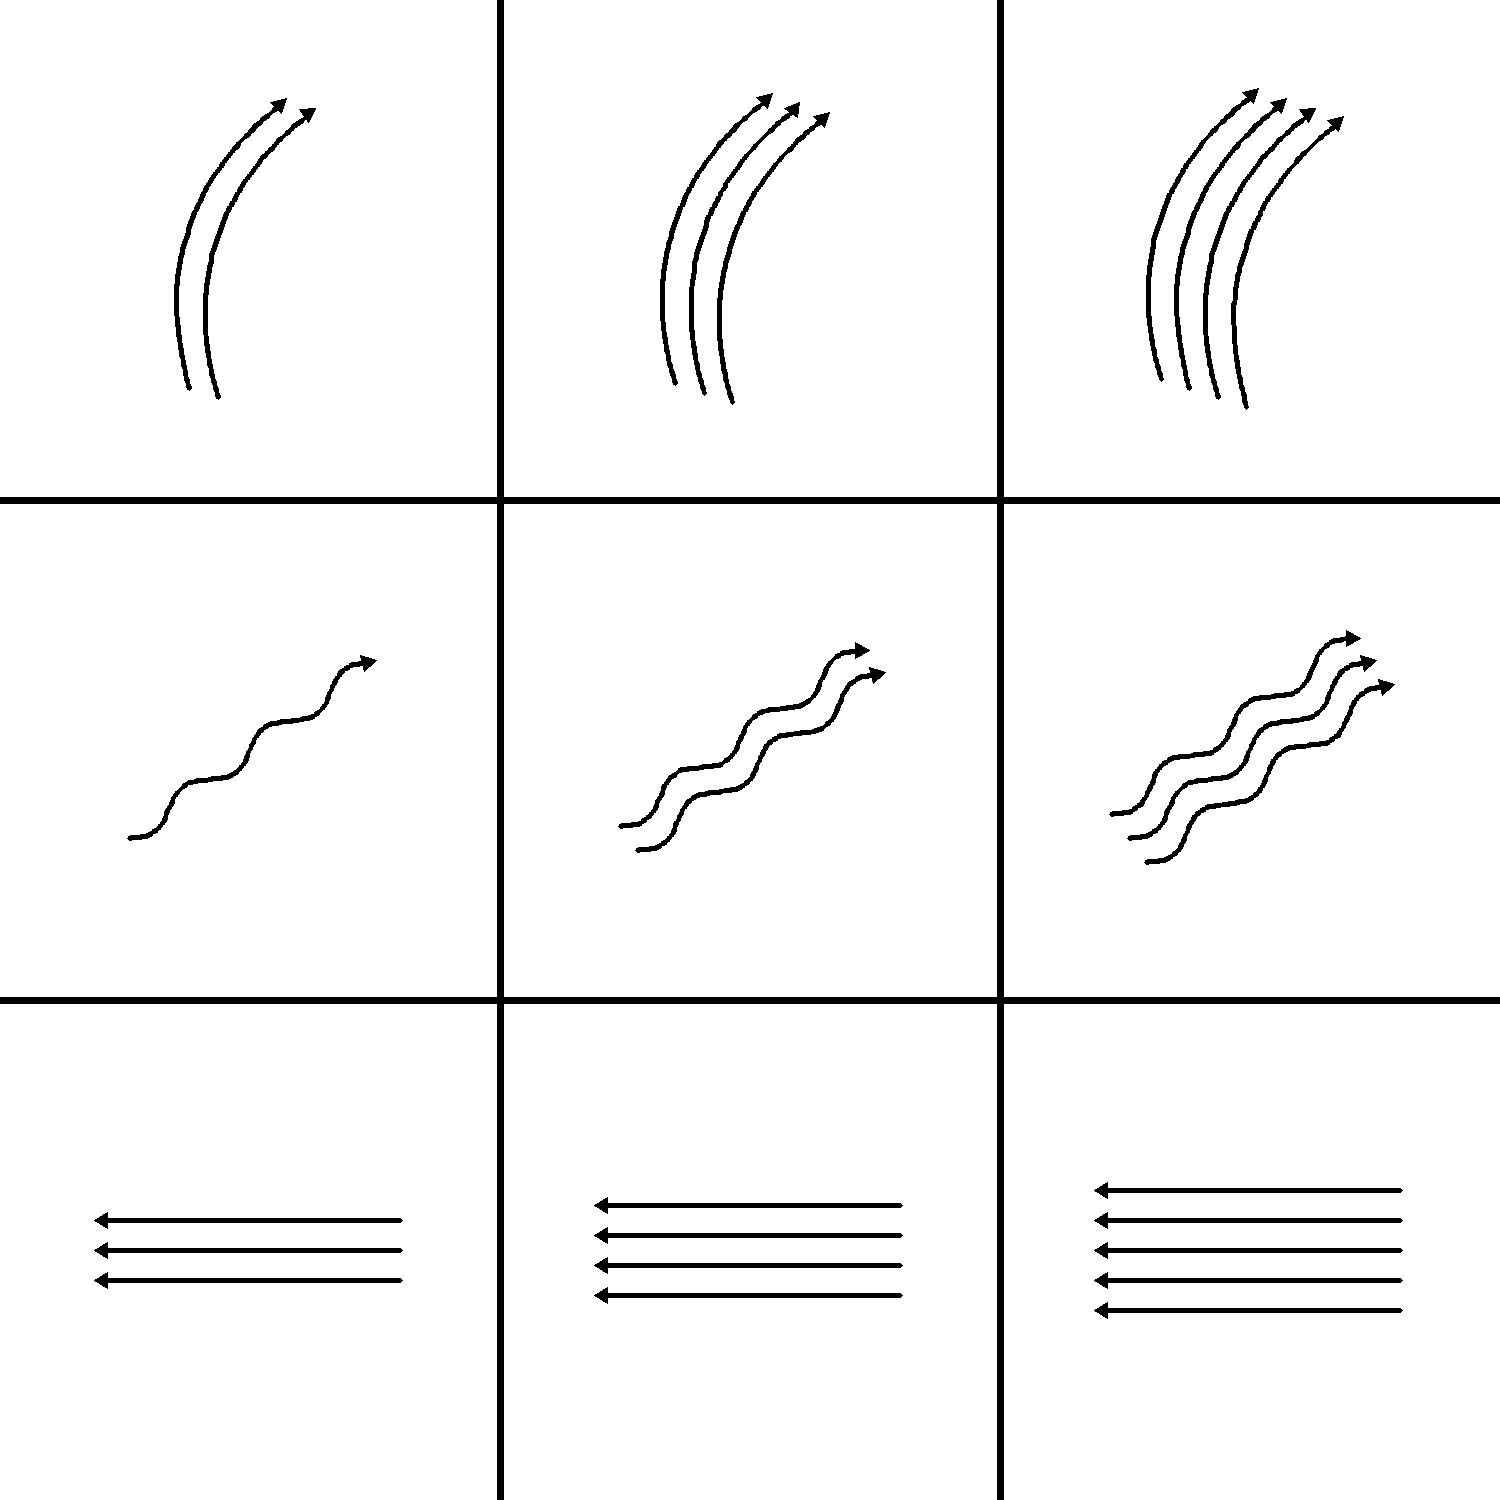
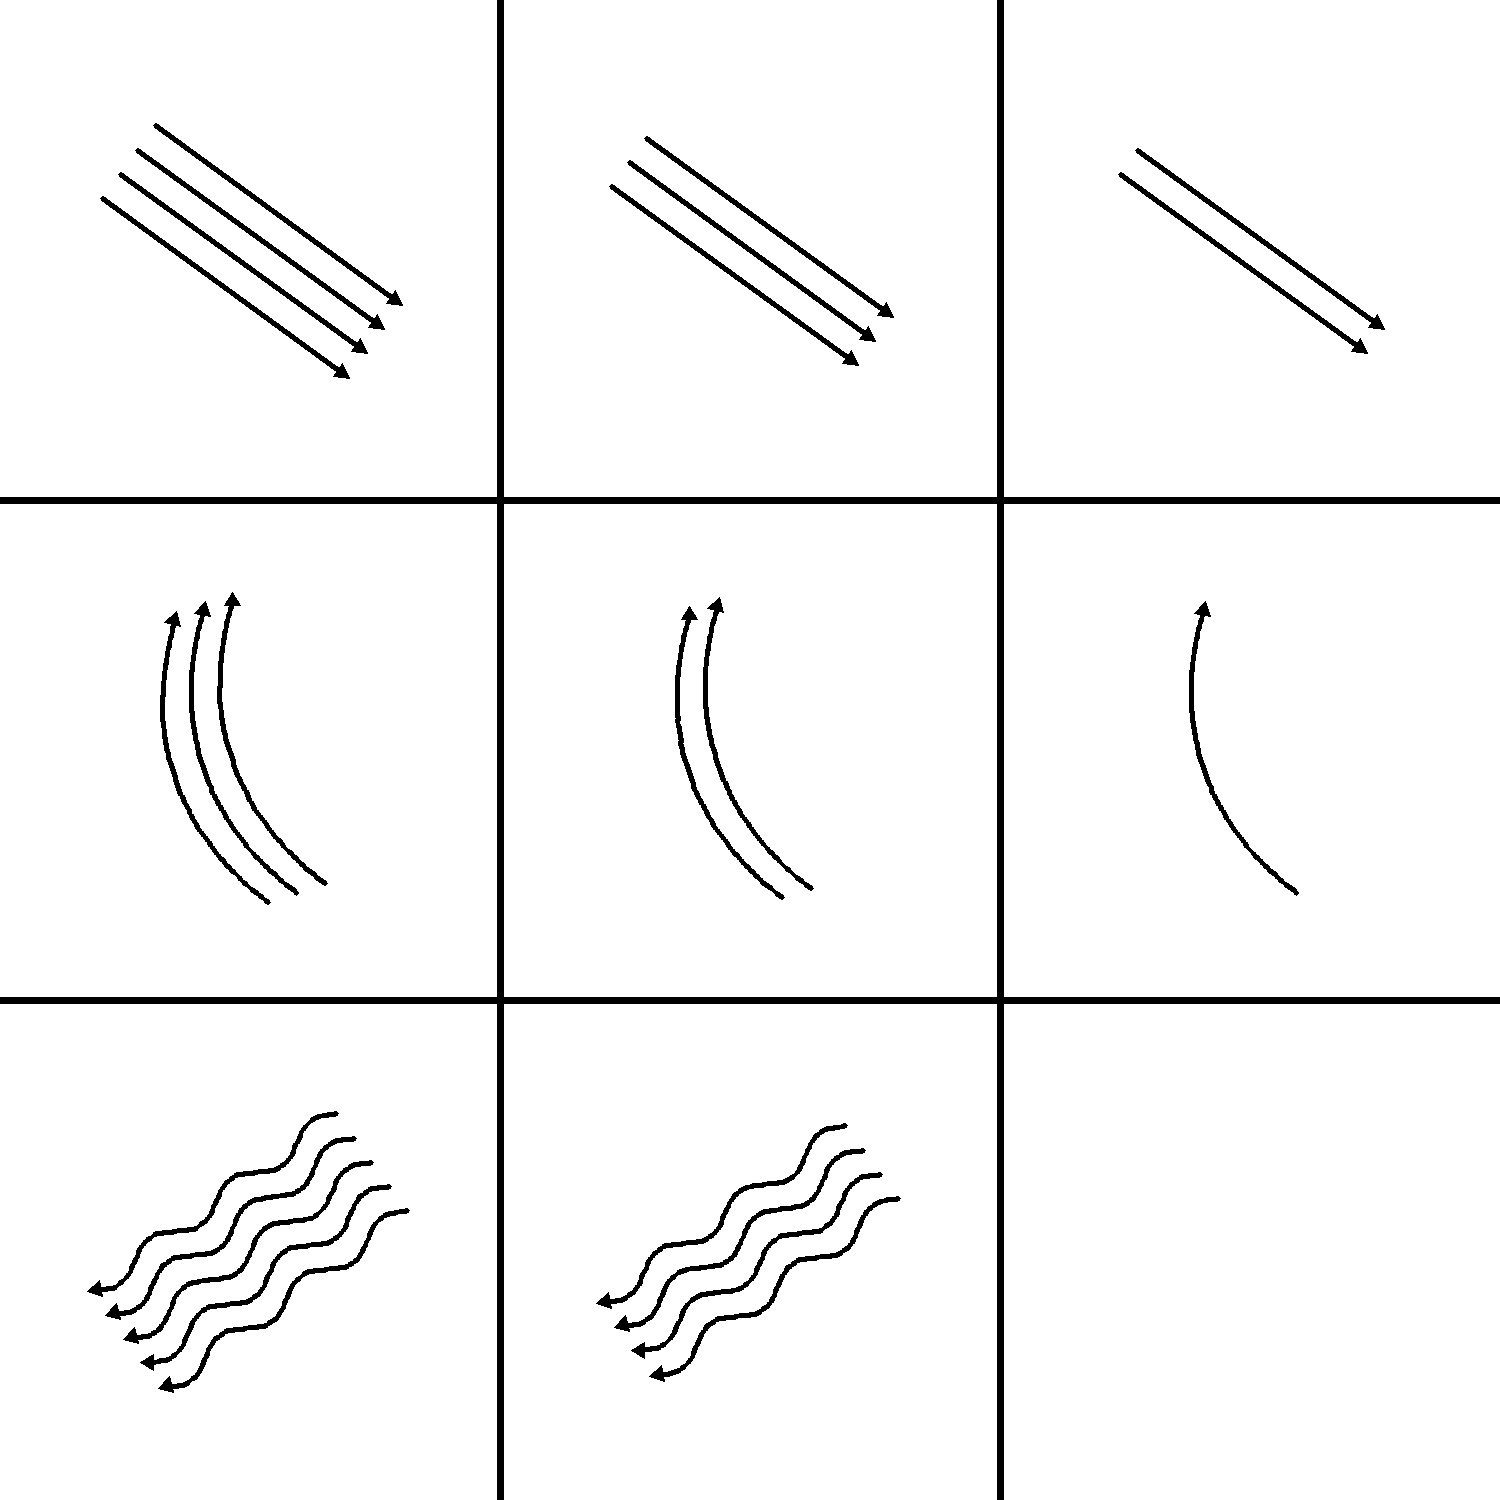
another bug catched and fixed out of the blue, very minor, updated the images for the readme

diff --git a/src/omss/render.py b/src/omss/render.py
@@ -436,8 +436,8 @@ def render_decagon(img, center, size, element):
 
 def render_circle(img, center, length, element):
     color = COLOR_MAP[element.color]
-    start_angle = ANGLE_MAP[element.angle] + 108 ##we need to offset it  to make the wedge center appear at the bottom, 90 +36/2
-    end_angle = start_angle + 324  # 360 - 36
+    start_angle = ANGLE_MAP[element.angle] + 99 ##we need to offset it  to make the wedge center appear at the bottom, 90 +18/2
+    end_angle = start_angle + 342  # 360 - 18
 
     # draw the filled arc
     cv2.ellipse(img, center, (int(length), int(length)), 0, start_angle, end_angle, color, -1)

diff --git a/src/omss/rules.py b/src/omss/rules.py
@@ -251,7 +251,7 @@ def constant_rule(matrix, attribute_type, seed_list):
    n_values = len(values)
    
    for row in matrix:
-       constant_value, seed_value = random_choice(seed_list, values)
+       constant_value, seed_list = random_choice(seed_list, values)
        if n_values >=3: 
            values.remove (constant_value)# remove it so we get unique values for each row, only remove it when we the attribute does have 3 instances at least
         

diff --git a/README.md b/README.md
@@ -2,7 +2,7 @@
 <img src="https://raw.githubusercontent.com/aranvhout/OMSS_generator/main/images/omss_logo.png" width="350">
 
 ## 
-**omss** is a Python package for generating matrix reasoning puzzles, inspired by Raven's Progressive Matrices. It allows users to generate an unlimited number of customizable puzzles across a range of difficulty levels by selecting and setting rules for visual elements. Please check out the [`Documentation`](https://github.com/aranvhout/OMSS_generator/blob/main/tutorial.md) for more information. 
+**omss** is a Python package for generating matrix reasoning puzzles, inspired by Raven's Progressive Matrices. It allows users to generate an unlimited number of customizable puzzles across a range of difficulty levels by setting rules for visual elements. Please check out the [`Documentation`](https://github.com/aranvhout/OMSS_generator/blob/main/tutorial.md) for more information. 
 
 
 ## Features
@@ -14,9 +14,9 @@
 - Generate virtually unlimited unique puzzle variations
 - Includes ~80 predefined rulesets across 6 difficulty levels, each of which can produce a huge variety of distinct puzzles
 
-<img src="https://raw.githubusercontent.com/aranvhout/OMSS_generator/main/images/example1.png" width="260">&nbsp;&nbsp;&nbsp;&nbsp;&nbsp;&nbsp;&nbsp;&nbsp;
-<img src="https://raw.githubusercontent.com/aranvhout/OMSS_generator/main/images/example2.png" width="260">&nbsp;&nbsp;&nbsp;&nbsp;&nbsp;&nbsp;&nbsp;&nbsp;
-<img src="https://raw.githubusercontent.com/aranvhout/OMSS_generator/main/images/example3.png" width="260">
+<img src="https://raw.githubusercontent.com/aranvhout/OMSS_generator/main/images/example1.png" width="230">&nbsp;&nbsp;&nbsp;&nbsp;&nbsp;&nbsp;
+<img src="https://raw.githubusercontent.com/aranvhout/OMSS_generator/main/images/example2.png" width="230">&nbsp;&nbsp;&nbsp;&nbsp;&nbsp;&nbsp;
+<img src="https://raw.githubusercontent.com/aranvhout/OMSS_generator/main/images/example3.png" width="230">
 
   
 
@@ -51,10 +51,10 @@ plot_matrices(solution_matrix, problem_matrix, alternatives)
 <img src="https://raw.githubusercontent.com/aranvhout/OMSS_generator/main/images/solution.png" width="260">&nbsp;&nbsp;&nbsp;&nbsp;&nbsp;&nbsp;&nbsp;&nbsp;
 <img src="https://raw.githubusercontent.com/aranvhout/OMSS_generator/main/images/problem_matrix.png" width="260">&nbsp;&nbsp;&nbsp;&nbsp;&nbsp;&nbsp;&nbsp;&nbsp;
 
-<img src="https://raw.githubusercontent.com/aranvhout/OMSS_generator/main/images/alternative_0.png" width="130">&nbsp;
-<img src="https://raw.githubusercontent.com/aranvhout/OMSS_generator/main/images/alternative_1.png" width="130">&nbsp;
-<img src="https://raw.githubusercontent.com/aranvhout/OMSS_generator/main/images/alternative_2.png" width="130">&nbsp;
-<img src="https://raw.githubusercontent.com/aranvhout/OMSS_generator/main/images/alternative_3.png" width="130">&nbsp;
+<img src="https://raw.githubusercontent.com/aranvhout/OMSS_generator/main/images/alternative_0.png" width="110">&nbsp;
+<img src="https://raw.githubusercontent.com/aranvhout/OMSS_generator/main/images/alternative_1.png" width="110">&nbsp;
+<img src="https://raw.githubusercontent.com/aranvhout/OMSS_generator/main/images/alternative_2.png" width="110">&nbsp;
+<img src="https://raw.githubusercontent.com/aranvhout/OMSS_generator/main/images/alternative_3.png" width="110">&nbsp;
 
 
 ## Documentation
